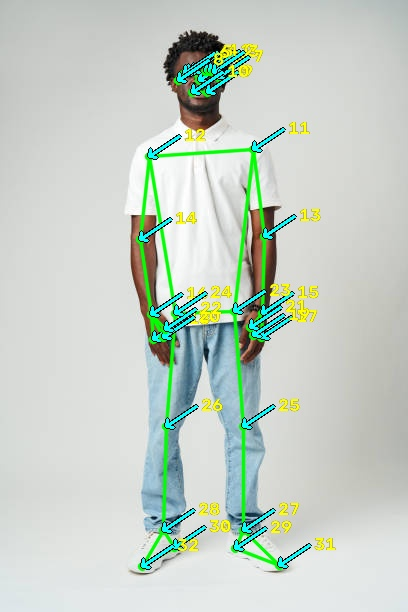
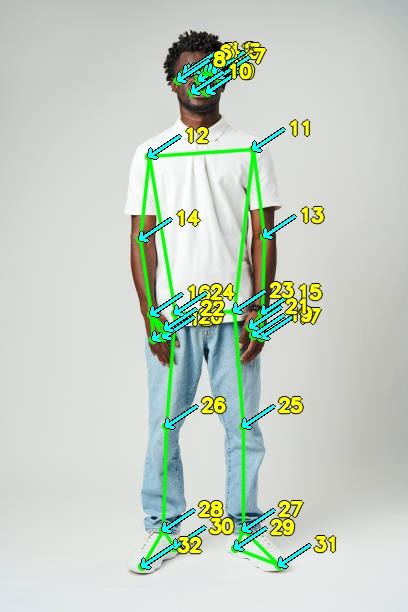
Changed some weeks

diff --git a/week6_batch_process.py b/week6_batch_process.py
@@ -1,0 +1,75 @@
+import cv2
+import mediapipe as mp
+import numpy as np
+import csv
+import os
+from week4_full_pipeline import compute_all_metrics, compute_legalign_score, classify_risk
+
+def batch_analyze(image_folder, output_csv='results/batch_results.csv'):
+    """Process all images in a folder, output CSV."""
+    
+    mp_pose = mp.solutions.pose
+    results_data = []
+    
+    # Get all jpg files
+    images = sorted([f for f in os.listdir(image_folder) if f.lower().endswith('.jpg')])
+    print(f"Found {len(images)} images to process...")
+    
+    with mp_pose.Pose(static_image_mode=True, model_complexity=2) as pose:
+        for i, filename in enumerate(images):
+            filepath = os.path.join(image_folder, filename)
+            image = cv2.imread(filepath)
+            
+            if image is None:
+                print(f"  SKIP: {filename} (unreadable)")
+                continue
+            
+            h, w = image.shape[:2]
+            result = pose.process(cv2.cvtColor(image, cv2.COLOR_BGR2RGB))
+            
+            if not result.pose_landmarks:
+                print(f"  SKIP: {filename} (no pose detected)")
+                continue
+            
+            metrics = compute_all_metrics(result.pose_landmarks.landmark, w, h)
+            score = compute_legalign_score(metrics)
+            risk, _ = classify_risk(score)
+            
+            # Parse filename: S01_2cm_front_rep1.jpg
+            parts = filename.replace('.jpg', '').split('_')
+            subject_id = parts[0] if len(parts) >= 1 else ''
+            condition = parts[1] if len(parts) >= 2 else ''
+            view = parts[2] if len(parts) >= 3 else ''
+            rep = parts[3] if len(parts) >= 4 else ''
+            
+            row = {
+                'filename': filename,
+                'subject_id': subject_id,
+                'condition_cm': condition,
+                'view': view,
+                'rep': rep,
+                'leg_cosine': f"{metrics['leg_cosine']:.6f}",
+                'pelvic_tilt_deg': f"{metrics['pelvic_tilt_deg']:.2f}",
+                'spine_deviation_deg': f"{metrics['spine_deviation_deg']:.2f}",
+                'leg_diff_px': f"{metrics['leg_length_diff_px']:.1f}",
+                'legalign_score': score,
+                'risk_level': risk
+            }
+            results_data.append(row)
+            
+            if (i + 1) % 10 == 0:
+                print(f"  Processed {i+1}/{len(images)}...")
+    
+    # Write CSV
+    os.makedirs(os.path.dirname(output_csv), exist_ok=True)
+    with open(output_csv, 'w', newline='') as f:
+        writer = csv.DictWriter(f, fieldnames=results_data[0].keys())
+        writer.writeheader()
+        writer.writerows(results_data)
+    
+    print(f"\nDone! Results saved to {output_csv}")
+    print(f"Processed: {len(results_data)} images successfully")
+    return results_data
+
+if __name__ == '__main__':
+    batch_analyze('images/collected/')

diff --git a/week5_calibration.py b/week5_calibration.py
@@ -82,9 +82,9 @@ if __name__ == '__main__':
     print("\n=== Multi-View Analysis ===")
     views = {
         'front': 'test_person.jpg',
-        #'back':  'images/subject01_back.jpg',
-        #'left':  'images/subject01_left.jpg',
-        #'right': 'images/subject01_right.jpg',
+        'back':  'images/subject01_back.jpg',
+        'left':  'images/subject01_left.jpg',
+        'right': 'images/subject01_right.jpg',
     }
     # Uncomment when you have real photos:
     analyze_multiple_views(views)

diff --git a/week1_keypoints.py b/week1_keypoints.py
@@ -1,7 +1,15 @@
 from pathlib import Path
 
+import sys
 import cv2
 import mediapipe as mp
+
+print("Python:", sys.executable)
+print("MediaPipe version:", mp.__version__)
+print("MediaPipe location:", mp.__file__)
+print("Has solutions:", hasattr(mp, "solutions"))
+
+
 
 
 PROJECT_DIR = Path(__file__).resolve().parent
